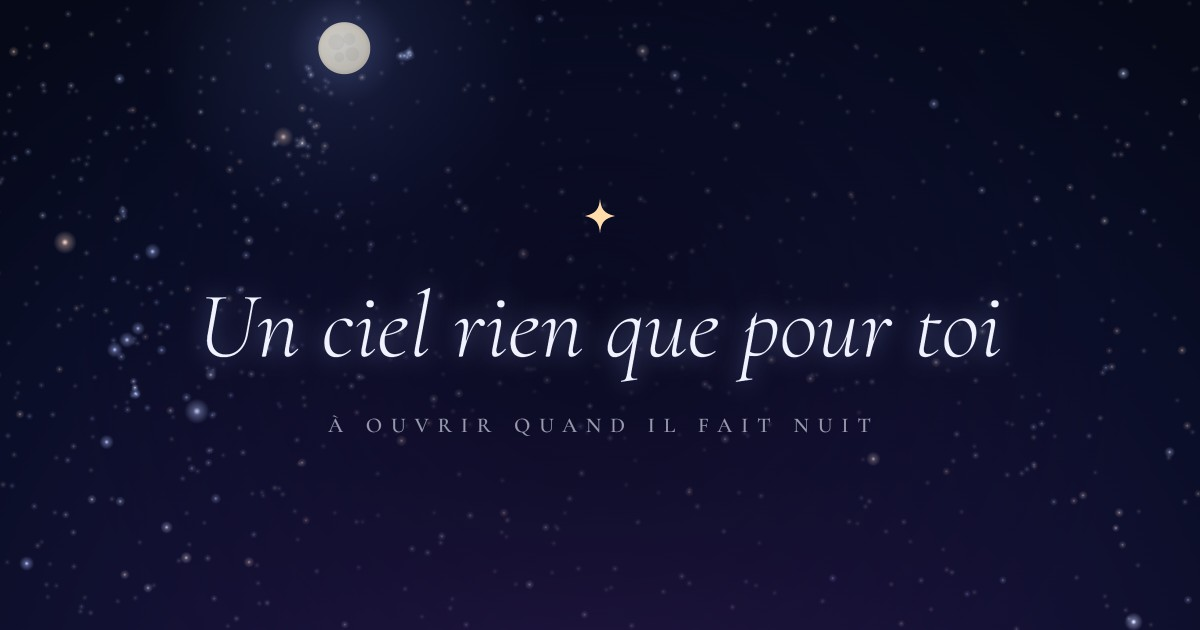
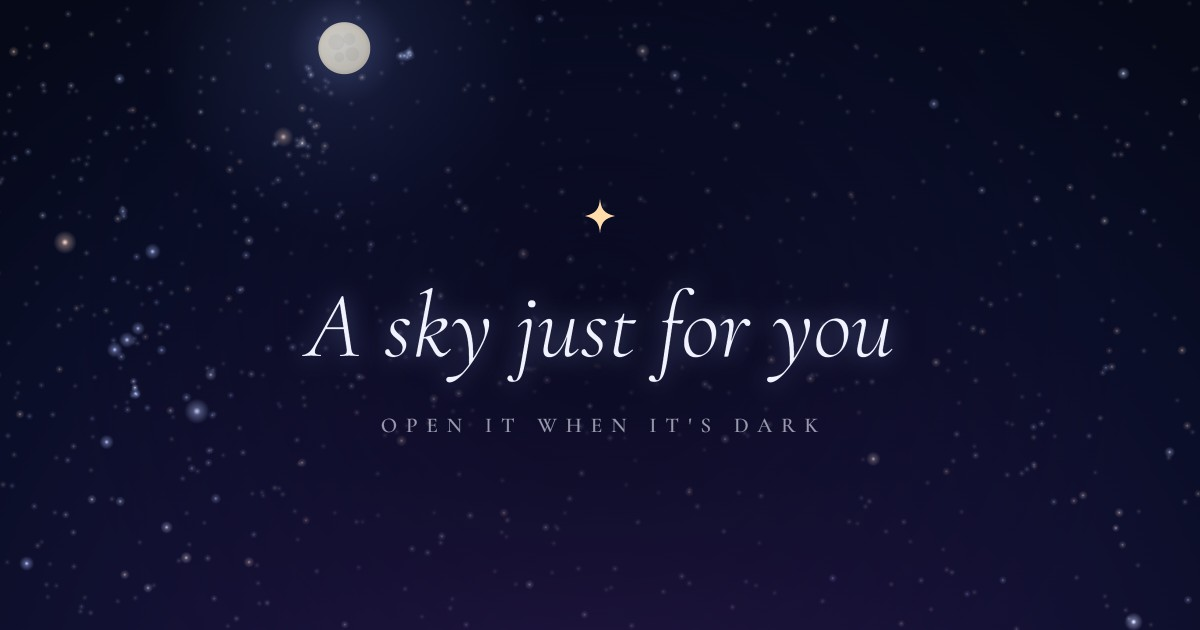
Site en anglais : interface, dates, constellations, aperçu du lien
Tous les textes visibles sont dans content.ts (bloc ui), y compris l'accueil
et la légende de la Lune.

Changed region(s): [[0.1542, 0.4524, 0.8325, 0.6032], [0.2775, 0.6635, 0.5242, 0.6937], [0.555, 0.6635, 0.7092, 0.6937]]

diff --git a/src/constellations.ts b/src/constellations.ts
@@ -1,29 +1,25 @@
-// Noms français des 88 constellations, avec l'article qui convient après « étoile ».
+// Noms anglais des 88 constellations (l'anglais garde les noms latins).
 const T: Record<string, string> = {
-  And: "d’Andromède", Ant: "de la Machine pneumatique", Aps: "de l’Oiseau de paradis", Aqr: "du Verseau",
-  Aql: "de l’Aigle", Ara: "de l’Autel", Ari: "du Bélier", Aur: "du Cocher", Boo: "du Bouvier", Cae: "du Burin",
-  Cam: "de la Girafe", Cnc: "du Cancer", CVn: "des Chiens de chasse", CMa: "du Grand Chien", CMi: "du Petit Chien",
-  Cap: "du Capricorne", Car: "de la Carène", Cas: "de Cassiopée", Cen: "du Centaure", Cep: "de Céphée",
-  Cet: "de la Baleine", Cha: "du Caméléon", Cir: "du Compas", Col: "de la Colombe", Com: "de la Chevelure de Bérénice",
-  CrA: "de la Couronne australe", CrB: "de la Couronne boréale", Crv: "du Corbeau", Crt: "de la Coupe",
-  Cru: "de la Croix du Sud", Cyg: "du Cygne", Del: "du Dauphin", Dor: "de la Dorade", Dra: "du Dragon",
-  Equ: "du Petit Cheval", Eri: "de l’Éridan", For: "du Fourneau", Gem: "des Gémeaux", Gru: "de la Grue",
-  Her: "d’Hercule", Hor: "de l’Horloge", Hya: "de l’Hydre", Hyi: "de l’Hydre mâle", Ind: "de l’Indien",
-  Lac: "du Lézard", Leo: "du Lion", LMi: "du Petit Lion", Lep: "du Lièvre", Lib: "de la Balance", Lup: "du Loup",
-  Lyn: "du Lynx", Lyr: "de la Lyre", Men: "de la Table", Mic: "du Microscope", Mon: "de la Licorne",
-  Mus: "de la Mouche", Nor: "de la Règle", Oct: "de l’Octant", Oph: "d’Ophiuchus", Ori: "d’Orion", Pav: "du Paon",
-  Peg: "de Pégase", Per: "de Persée", Phe: "du Phénix", Pic: "du Peintre", Psc: "des Poissons",
-  PsA: "du Poisson austral", Pup: "de la Poupe", Pyx: "de la Boussole", Ret: "du Réticule", Sge: "de la Flèche",
-  Sgr: "du Sagittaire", Sco: "du Scorpion", Scl: "du Sculpteur", Sct: "de l’Écu", Ser: "du Serpent",
-  Sex: "du Sextant", Tau: "du Taureau", Tel: "du Télescope", Tri: "du Triangle", TrA: "du Triangle austral",
-  Tuc: "du Toucan", UMa: "de la Grande Ourse", UMi: "de la Petite Ourse", Vel: "des Voiles", Vir: "de la Vierge",
-  Vol: "du Poisson volant", Vul: "du Petit Renard",
+  And: "Andromeda", Ant: "Antlia", Aps: "Apus", Aqr: "Aquarius", Aql: "Aquila", Ara: "Ara", Ari: "Aries",
+  Aur: "Auriga", Boo: "Boötes", Cae: "Caelum", Cam: "Camelopardalis", Cnc: "Cancer", CVn: "Canes Venatici",
+  CMa: "Canis Major", CMi: "Canis Minor", Cap: "Capricornus", Car: "Carina", Cas: "Cassiopeia", Cen: "Centaurus",
+  Cep: "Cepheus", Cet: "Cetus", Cha: "Chamaeleon", Cir: "Circinus", Col: "Columba", Com: "Coma Berenices",
+  CrA: "Corona Australis", CrB: "Corona Borealis", Crv: "Corvus", Crt: "Crater", Cru: "Crux", Cyg: "Cygnus",
+  Del: "Delphinus", Dor: "Dorado", Dra: "Draco", Equ: "Equuleus", Eri: "Eridanus", For: "Fornax", Gem: "Gemini",
+  Gru: "Grus", Her: "Hercules", Hor: "Horologium", Hya: "Hydra", Hyi: "Hydrus", Ind: "Indus", Lac: "Lacerta",
+  Leo: "Leo", LMi: "Leo Minor", Lep: "Lepus", Lib: "Libra", Lup: "Lupus", Lyn: "Lynx", Lyr: "Lyra", Men: "Mensa",
+  Mic: "Microscopium", Mon: "Monoceros", Mus: "Musca", Nor: "Norma", Oct: "Octans", Oph: "Ophiuchus", Ori: "Orion",
+  Pav: "Pavo", Peg: "Pegasus", Per: "Perseus", Phe: "Phoenix", Pic: "Pictor", Psc: "Pisces", PsA: "Piscis Austrinus",
+  Pup: "Puppis", Pyx: "Pyxis", Ret: "Reticulum", Sge: "Sagitta", Sgr: "Sagittarius", Sco: "Scorpius",
+  Scl: "Sculptor", Sct: "Scutum", Ser: "Serpens", Sex: "Sextans", Tau: "Taurus", Tel: "Telescopium",
+  Tri: "Triangulum", TrA: "Triangulum Australe", Tuc: "Tucana", UMa: "Ursa Major", UMi: "Ursa Minor", Vel: "Vela",
+  Vir: "Virgo", Vol: "Volans", Vul: "Vulpecula",
 };
 
-/** « Une étoile du Taureau », ou avec son nom propre : « Aldebaran · étoile du Taureau ». */
+/** « A star in Taurus », ou avec son nom propre : « Aldebaran · a star in Taurus ». */
 export function starCaption(code: string, proper?: string): string {
-  const of = T[code.trim()];
-  if (proper && of) return `${proper} · étoile ${of}`;
+  const name = T[code.trim()];
+  if (proper && name) return `${proper} · a star in ${name}`;
   if (proper) return proper;
-  return of ? `Une étoile ${of}` : "Une étoile rien que pour toi";
+  return name ? `A star in ${name}` : "A star just for you";
 }

diff --git a/src/content.ts b/src/content.ts
@@ -1,9 +1,10 @@
 // ─────────────────────────────────────────────────────────────
 //  TOUT le contenu personnel est ici. Rien d'autre à modifier.
+//  Le site est en anglais : tous les textes ci-dessous aussi.
 //  Après un changement : `npm run deploy`.
 // ─────────────────────────────────────────────────────────────
 export const content = {
-  prenom: "Prénom", // ← à remplacer
+  prenom: "Name", // ← à remplacer
 
   naissance: {
     date: "2005-11-16",
@@ -14,35 +15,37 @@ export const content = {
     fuseau: "Europe/Berlin",
   },
 
-  // Un message par étoile du lapin, dans l'ordre où les traits se dessinent
-  // (museau, oreilles, dos, queue, pattes). 8 à 12 messages possibles.
+  // Un message par étoile, dans l'ordre où elle les découvre. 8 à 12 messages possibles.
   messages: [
-    "Message 1 — à remplacer.",
-    "Message 2 — à remplacer.",
-    "Message 3 — à remplacer.",
-    "Message 4 — à remplacer.",
-    "Message 5 — à remplacer.",
-    "Message 6 — à remplacer.",
-    "Message 7 — à remplacer.",
-    "Message 8 — à remplacer.",
-    "Message 9 — à remplacer.",
-    "Message 10 — à remplacer.",
+    "Message 1 — to replace.",
+    "Message 2 — to replace.",
+    "Message 3 — to replace.",
+    "Message 4 — to replace.",
+    "Message 5 — to replace.",
+    "Message 6 — to replace.",
+    "Message 7 — to replace.",
+    "Message 8 — to replace.",
+    "Message 9 — to replace.",
+    "Message 10 — to replace.",
   ],
 
   // Petit mot quand elle touche la Lune (laisser "" pour désactiver).
-  messageLune: "La nuit où tu es née, la Lune était pleine.",
+  messageLune: "The night you were born, the Moon was full.",
 
-  messageFinal: "Message final — à remplacer.",
+  messageFinal: "Final message — to replace.",
   signature: "Signature",
 
   // Textes d'interface (modifiables aussi).
   ui: {
-    commencer: "Toucher pour commencer",
-    indice: "Une étoile brille plus fort que les autres…",
-    joyeux: "Joyeux anniversaire",
-    revoir: "Revoir le ciel",
-    constellation: "le Lapin", // légende sous la constellation ("" pour l'enlever)
-    paysage: "Tourne ton téléphone",
+    intro1: "The sky of {date},", // {date} = date de naissance
+    intro2: "above {ville}.", // {ville} = ville de naissance
+    commencer: "Touch to begin",
+    indice: "One star shines brighter than the others…",
+    joyeux: "Happy birthday",
+    revoir: "See the sky again",
+    constellation: "the Rabbit", // légende sous la constellation ("" pour l'enlever)
+    lune: "The Moon · {pct}% illuminated", // {pct} = pourcentage éclairé
+    paysage: "Turn your phone",
   },
 };
 

diff --git a/index.html b/index.html
@@ -1,10 +1,10 @@
 <!doctype html>
-<html lang="fr">
+<html lang="en">
   <head>
     <meta charset="utf-8" />
     <meta name="viewport" content="width=device-width, initial-scale=1, viewport-fit=cover, user-scalable=no" />
-    <title>Un ciel rien que pour toi</title>
-    <meta name="description" content="Ouvre-le quand il fera nuit." />
+    <title>A sky just for you</title>
+    <meta name="description" content="Open it when it's dark." />
     <meta name="robots" content="noindex, nofollow" />
     <meta name="theme-color" content="#070b1f" />
     <meta name="color-scheme" content="dark" />
@@ -13,8 +13,8 @@
     <link rel="apple-touch-icon" href="/apple-touch-icon.png" />
     <link rel="icon" type="image/png" href="/icon-64.png" />
     <meta property="og:type" content="website" />
-    <meta property="og:title" content="Un ciel rien que pour toi" />
-    <meta property="og:description" content="Ouvre-le quand il fera nuit." />
+    <meta property="og:title" content="A sky just for you" />
+    <meta property="og:description" content="Open it when it's dark." />
     <meta property="og:image" content="/og.jpg" />
     <meta property="og:image:width" content="1200" />
     <meta property="og:image:height" content="630" />
@@ -30,12 +30,12 @@
     </style>
   </head>
   <body>
-    <canvas id="sky" aria-label="Le ciel étoilé"></canvas>
+    <canvas id="sky" aria-label="The starry sky"></canvas>
     <canvas id="fx" aria-hidden="true"></canvas>
 
     <div id="hud" class="is-hidden">
       <div id="progress" role="status"></div>
-      <button id="sound" type="button" aria-label="Couper le son" aria-pressed="true">
+      <button id="sound" type="button" aria-label="Mute sound" aria-pressed="true">
         <svg viewBox="0 0 24 24" width="20" height="20" fill="none" stroke="currentColor" stroke-width="1.3" stroke-linecap="round" stroke-linejoin="round">
           <path d="M4 9.5v5h3.2L12 18.5v-13L7.2 9.5H4z" />
           <path class="wave" d="M15.5 9.2c.9.8 1.4 1.7 1.4 2.8s-.5 2-1.4 2.8" />

diff --git a/src/app.ts b/src/app.ts
@@ -8,7 +8,7 @@ import { Card } from "./card";
 import { Finale } from "./finale";
 import { sound } from "./audio";
 import { starCaption } from "./constellations";
-import { dateFr } from "./text";
+import { dateEn } from "./text";
 
 const $ = (s: string) => document.querySelector(s) as HTMLElement;
 const clamp = (v: number, a: number, b: number) => Math.max(a, Math.min(b, v));
@@ -88,11 +88,11 @@ export async function createApp() {
   const dots = Array.from(progress.children) as HTMLElement[];
   const paintProgress = () => {
     dots.forEach((d, i) => d.classList.toggle("on", i < seen.length));
-    progress.setAttribute("aria-label", `${seen.length} étoiles sur ${total}`);
+    progress.setAttribute("aria-label", `${seen.length} of ${total} stars`);
   };
   paintProgress();
   $("#place").innerHTML = "";
-  [nz.ville, dateFr(nz.date), nz.heure.replace(":", " h ")].forEach((t, i) => {
+  [nz.ville, dateEn(nz.date), nz.heure].forEach((t, i) => {
     if (i) {
       const sep = document.createElement("b");
       sep.textContent = "—";
@@ -112,7 +112,7 @@ export async function createApp() {
     const on = !sound.enabled;
     sound.setEnabled(on);
     soundBtn.setAttribute("aria-pressed", String(on));
-    soundBtn.setAttribute("aria-label", on ? "Couper le son" : "Activer le son");
+    soundBtn.setAttribute("aria-label", on ? "Mute sound" : "Turn sound on");
   });
 
   // ── Étoiles du lapin ─────────────────────────────────
@@ -142,7 +142,7 @@ export async function createApp() {
     fx.ring(sky.moon.dir, time, false);
     sound.chime(4, 0.7);
     $("#hint").classList.remove("on");
-    card.open(`La Lune · éclairée à ${Math.round(sky.moon.fraction * 100)} %`, content.messageLune);
+    card.open(content.ui.lune.replace("{pct}", String(Math.round(sky.moon.fraction * 100))), content.messageLune);
   }
 
   card.onClose = () => {

diff --git a/src/text.ts b/src/text.ts
@@ -1,16 +1,7 @@
-/** "2005-11-16" -> « 16 novembre 2005 » (et « 1er » pour le premier du mois). */
-export function dateFr(iso: string): string {
+/** "2005-11-16" -> « 16 November 2005 ». */
+export function dateEn(iso: string): string {
   const [y, m, d] = iso.split("-").map(Number);
-  const s = new Intl.DateTimeFormat("fr-FR", { day: "numeric", month: "long", year: "numeric", timeZone: "UTC" }).format(
+  return new Intl.DateTimeFormat("en-GB", { day: "numeric", month: "long", year: "numeric", timeZone: "UTC" }).format(
     new Date(Date.UTC(y, m - 1, d, 12)),
   );
-  return s.replace(/^1 /, "1er ");
-}
-
-/** « au-dessus de Toulouse », « d’Angers », « du Mans », « des Sables-d’Olonne ». */
-export function auDessusDe(ville: string): string {
-  if (/^Le\s/.test(ville)) return "au-dessus du " + ville.slice(3);
-  if (/^Les\s/.test(ville)) return "au-dessus des " + ville.slice(4);
-  if (/^[aeiouyhâàéèêîôûœ]/i.test(ville)) return "au-dessus d’" + ville;
-  return "au-dessus de " + ville;
 }

diff --git a/src/main.ts b/src/main.ts
@@ -5,7 +5,7 @@ import "@fontsource/cormorant-garamond/latin-500.css";
 import "./style.css";
 import { content } from "./content";
 import { sound } from "./audio";
-import { auDessusDe, dateFr } from "./text";
+import { dateEn } from "./text";
 
 const $ = (s: string) => document.querySelector(s) as HTMLElement;
 const intro = $("#intro");
@@ -13,7 +13,8 @@ const startBtn = $("#start");
 
 // ── Intro : affichée tout de suite, avant le chargement du ciel ──
 const line = $("#intro-line");
-for (const t of [`Le ciel du ${dateFr(content.naissance.date)},`, `${auDessusDe(content.naissance.ville)}.`]) {
+const fill = (t: string) => t.replace("{date}", dateEn(content.naissance.date)).replace("{ville}", content.naissance.ville);
+for (const t of [fill(content.ui.intro1), fill(content.ui.intro2)]) {
   const s = document.createElement("span");
   s.textContent = t;
   line.appendChild(s);

diff --git a/src/og.ts b/src/og.ts
@@ -118,12 +118,12 @@ async function render(icon: boolean, W: number, H: number, name: string, type: s
     ctx.shadowBlur = 44;
     ctx.fillStyle = "#f1f2ff";
     ctx.font = 'italic 300 94px "Cormorant Garamond"';
-    ctx.fillText("Un ciel rien que pour toi", W / 2, 356);
+    ctx.fillText("A sky just for you", W / 2, 356);
     ctx.shadowBlur = 0;
     ctx.fillStyle = "rgba(238, 240, 255, 0.62)";
     ctx.font = '500 21px "Cormorant Garamond"';
     (ctx as any).letterSpacing = "9px";
-    ctx.fillText("À OUVRIR QUAND IL FAIT NUIT", W / 2 + 4, 432);
+    ctx.fillText("OPEN IT WHEN IT'S DARK", W / 2 + 4, 432);
   }
 
   // réduction propre à la taille finale

diff --git a/README.md b/README.md
@@ -4,7 +4,7 @@ Une page à ouvrir sur iPhone : le vrai ciel de la nuit et du lieu de naissance,
 
 ## Modifier le contenu
 
-Tout est dans [`src/content.ts`](src/content.ts) : prénom, date, heure, ville et coordonnées, les messages (8 à 12), le mot de la Lune, le message final, la signature.
+Le site est en anglais. Tout le contenu est dans [`src/content.ts`](src/content.ts), y compris les textes d'interface (bloc `ui`) : prénom, date, heure, ville et coordonnées, les messages (8 à 12), le mot de la Lune, le message final, la signature.
 
 Le ciel, la position de la Lune et le choix des étoiles du lapin sont recalculés à partir de ce fichier. Après un changement de date, d'heure ou de ville, ouvrir `?debug` pour vérifier la forme du lapin.
 
